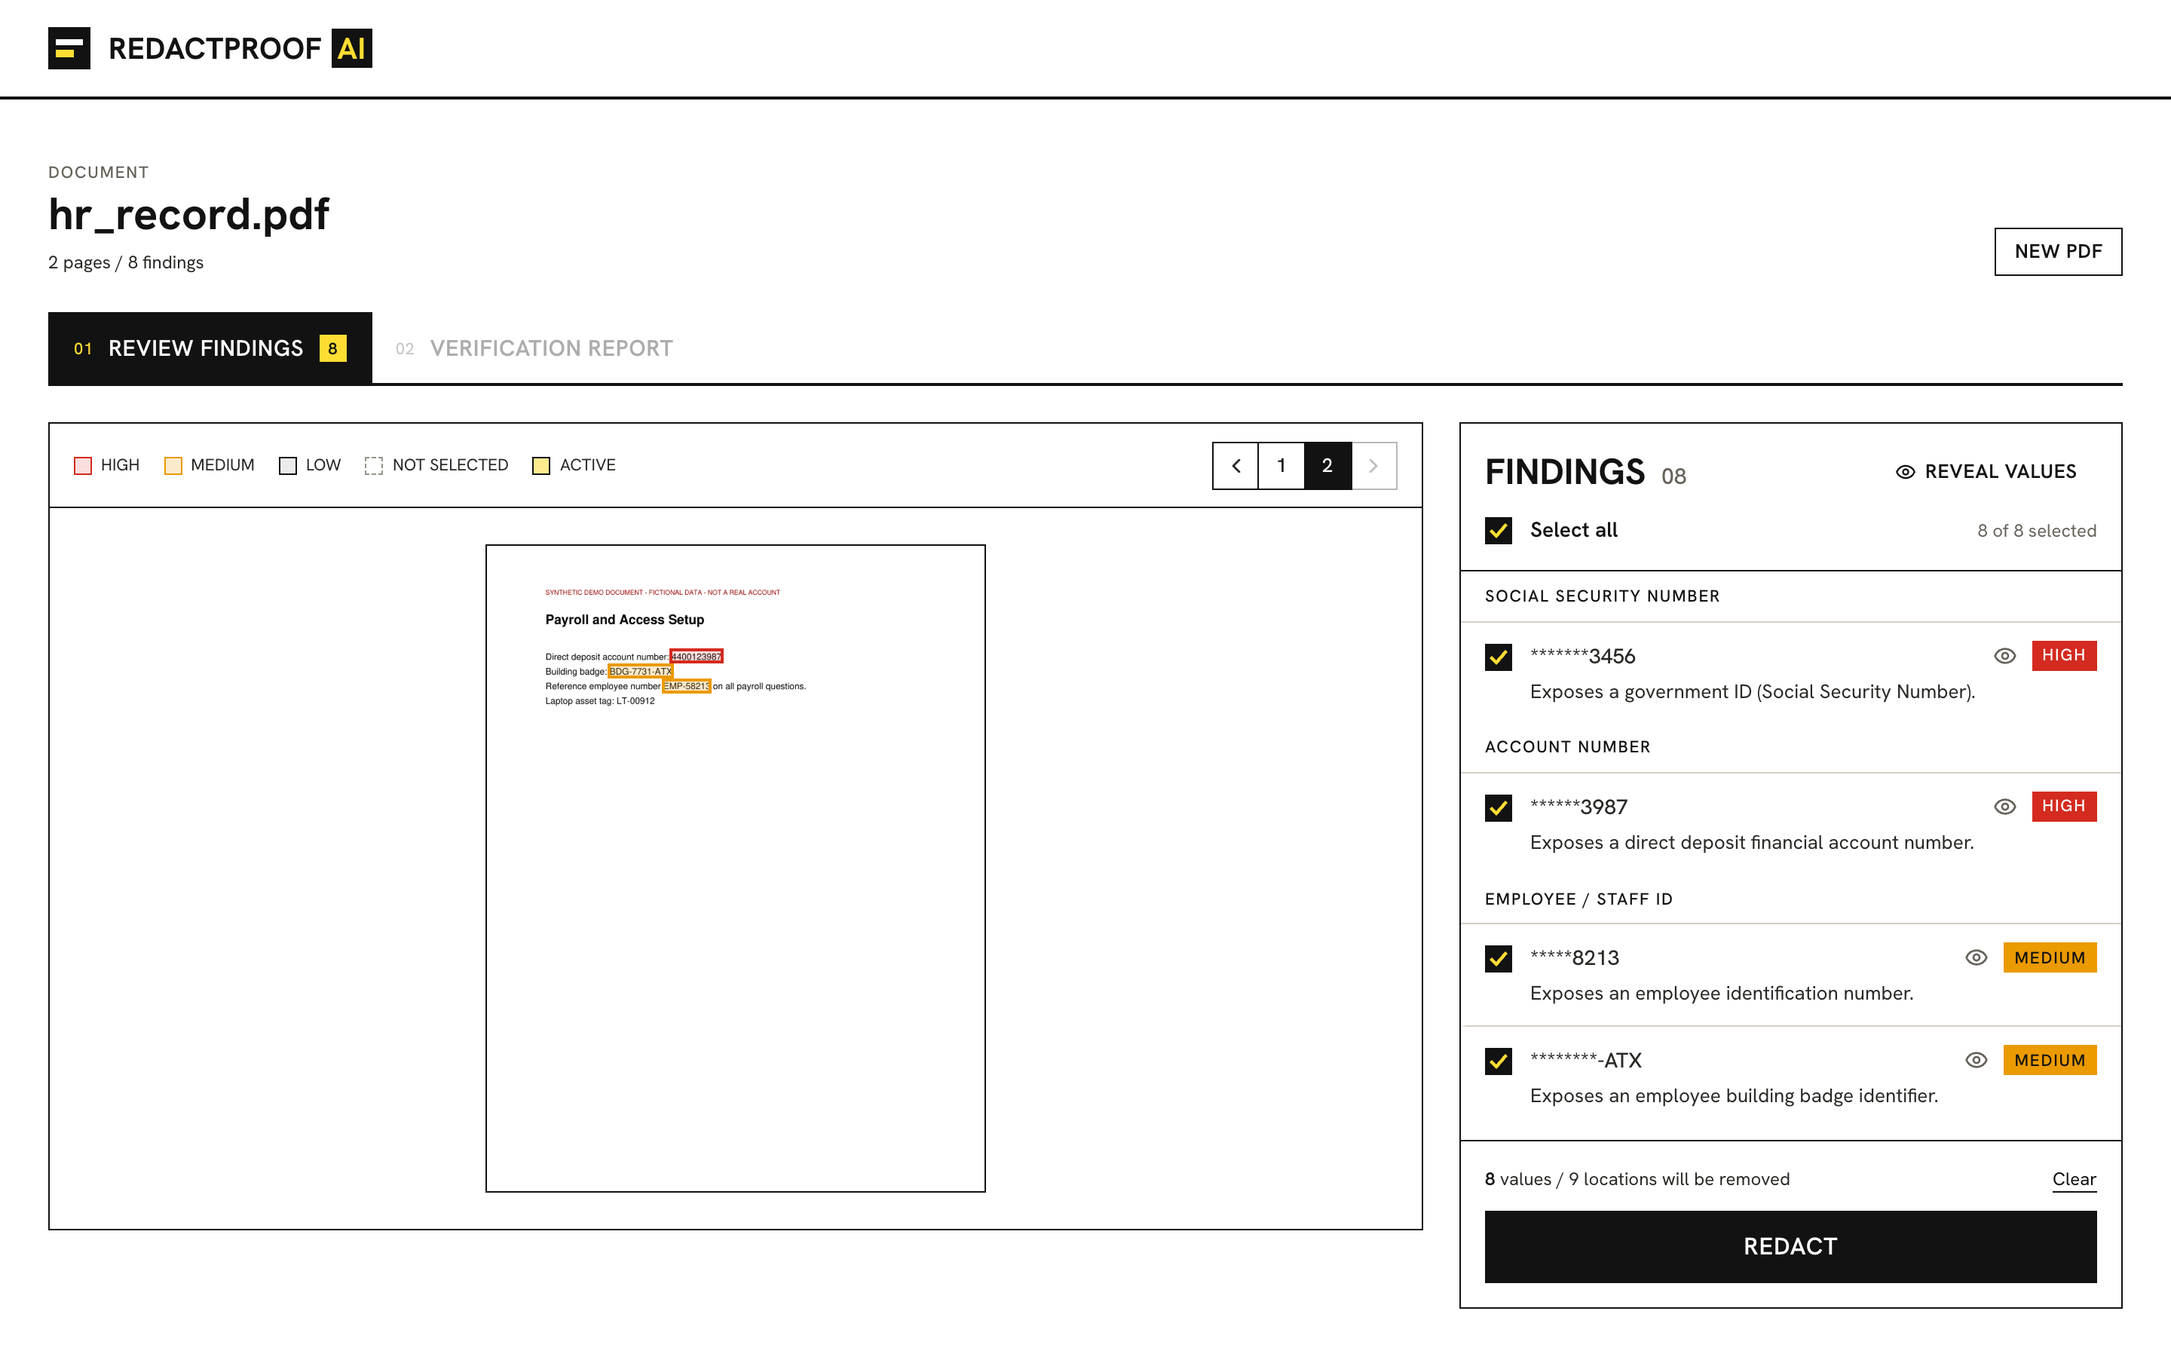
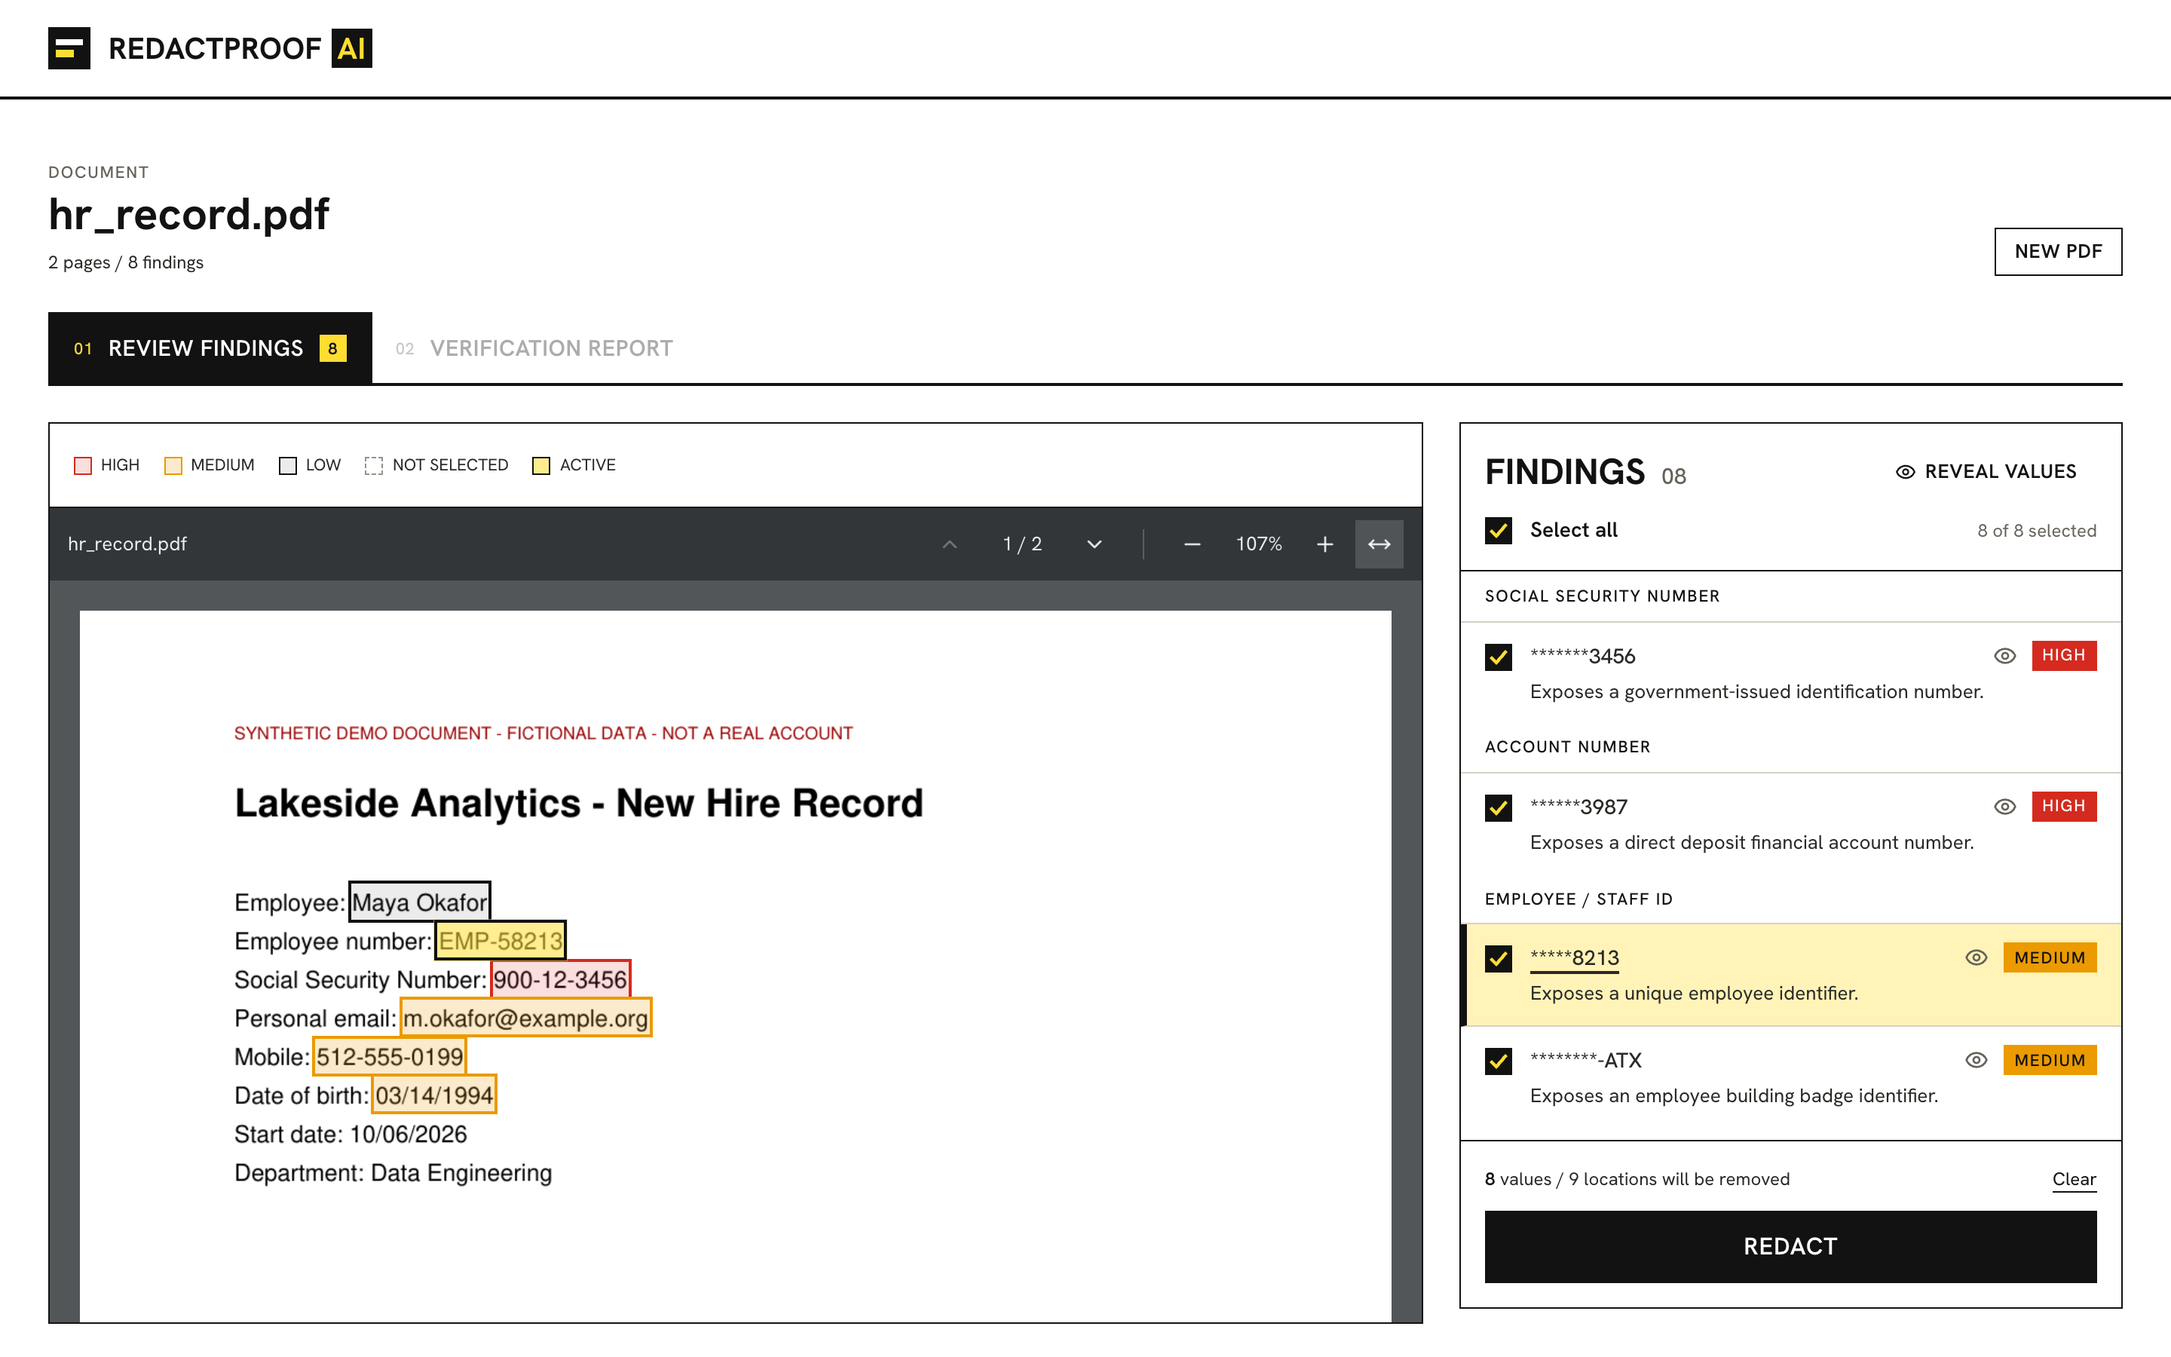
Show the document in a browser-style PDF reader
- New PdfReader: all pages in one continuous scroll on a dark backdrop with
  no page outline, plus a toolbar with file name, page indicator, previous /
  next, zoom in / out and fit to width (like a browser's PDF viewer)
- The color key stays above the reader; highlights scale with zoom
- Clicking a finding scrolls only the reader to its first location, not the
  whole page
- DocumentViewer gains width / framed / scroll options; the report's
  before/after view is unchanged

Changed region(s): [[0.0, 0.3111, 1.0, 0.9956], [0.0938, 0.6533, 0.3125, 0.8711], [0.8125, 0.4978, 0.9062, 0.5289]]

diff --git a/frontend/src/components/PdfReader.tsx b/frontend/src/components/PdfReader.tsx
@@ -1,0 +1,152 @@
+import { useEffect, useLayoutEffect, useRef, useState } from 'react'
+import { ChevronDown, ChevronUp, Minus, MoveHorizontal, Plus } from 'lucide-react'
+import type { DocumentPage, Finding } from '../api/types'
+import { api } from '../api/client'
+import { DocumentViewer } from './DocumentViewer'
+import { cx } from './ui'
+
+/** CSS pixels per PDF point at 100% zoom (96 dpi / 72 pt per inch), like a browser's PDF viewer. */
+const PX_PER_PT = 96 / 72
+const ZOOM_STEPS = [0.5, 0.75, 1, 1.25, 1.5, 2]
+const PAGE_GAP = 12
+const PADDING = 20
+
+interface PdfReaderProps {
+  filename: string
+  pages: DocumentPage[]
+  findings: Finding[]
+  selectedIds: Set<string>
+  activeId: string | null
+  /** Page whose box for the active finding should be scrolled to, and a key that re-triggers the scroll. */
+  focusPage: number | null
+  focusKey: number
+  onFindingClick: (id: string, page: number) => void
+}
+
+/** Continuous-scroll page view modelled on a browser's built-in PDF viewer, with finding overlays. */
+export function PdfReader({ filename, pages, findings, selectedIds, activeId, focusPage, focusKey, onFindingClick }: PdfReaderProps) {
+  const scrollRef = useRef<HTMLDivElement>(null)
+  const pageRefs = useRef<(HTMLDivElement | null)[]>([])
+  const [available, setAvailable] = useState(0)
+  const [zoom, setZoom] = useState<number | 'fit'>('fit')
+  const [current, setCurrent] = useState(1)
+
+  // Track the width available for "fit to width".
+  useLayoutEffect(() => {
+    const el = scrollRef.current
+    if (!el) return
+    const measure = () => setAvailable(el.clientWidth - PADDING * 2)
+    measure()
+    const observer = new ResizeObserver(measure)
+    observer.observe(el)
+    return () => observer.disconnect()
+  }, [])
+
+  const widest = Math.max(...pages.map((p) => p.width))
+  const fitZoom = available > 0 ? available / (widest * PX_PER_PT) : 1
+  const scale = zoom === 'fit' ? fitZoom : zoom
+  const percent = Math.round(scale * 100)
+
+  function updateCurrent() {
+    const el = scrollRef.current
+    if (!el) return
+    const probe = el.scrollTop + el.clientHeight * 0.3
+    let page = 1
+    pageRefs.current.forEach((node, i) => {
+      if (node && node.offsetTop <= probe) page = i + 1
+    })
+    setCurrent(page)
+  }
+
+  // Keep the page indicator right after zooming or resizing.
+  useEffect(updateCurrent, [scale])
+
+  function goTo(page: number) {
+    const el = scrollRef.current
+    const node = pageRefs.current[page - 1]
+    if (el && node) el.scrollTo({ top: node.offsetTop - PADDING, behavior: 'smooth' })
+  }
+
+  function stepZoom(direction: 1 | -1) {
+    const next = direction > 0 ? ZOOM_STEPS.find((z) => z > scale + 0.001) : [...ZOOM_STEPS].reverse().find((z) => z < scale - 0.001)
+    if (next !== undefined) setZoom(next)
+  }
+
+  const barButton = 'flex size-8 items-center justify-center text-white/85 transition-colors hover:bg-white/10 hover:text-white disabled:opacity-35 disabled:hover:bg-transparent'
+
+  return (
+    <div className="flex flex-col">
+      <div className="flex h-12 items-center gap-4 bg-reader-bar px-3 text-[13px] text-white/90">
+        <span className="min-w-0 flex-1 truncate" title={filename}>
+          {filename}
+        </span>
+        <div className="flex items-center gap-1" role="group" aria-label="Page navigation">
+          <button type="button" className={barButton} onClick={() => goTo(current - 1)} disabled={current <= 1} aria-label="Previous page">
+            <ChevronUp className="size-4" aria-hidden />
+          </button>
+          <span className="min-w-14 text-center tabular-nums" aria-live="polite" aria-label={`Page ${current} of ${pages.length}`}>
+            {current} / {pages.length}
+          </span>
+          <button type="button" className={barButton} onClick={() => goTo(current + 1)} disabled={current >= pages.length} aria-label="Next page">
+            <ChevronDown className="size-4" aria-hidden />
+          </button>
+        </div>
+        <span className="h-5 w-px bg-white/20" aria-hidden />
+        <div className="flex items-center gap-1" role="group" aria-label="Zoom">
+          <button type="button" className={barButton} onClick={() => stepZoom(-1)} disabled={scale <= ZOOM_STEPS[0] + 0.001} aria-label="Zoom out">
+            <Minus className="size-4" aria-hidden />
+          </button>
+          <span className="min-w-12 text-center tabular-nums">{percent}%</span>
+          <button type="button" className={barButton} onClick={() => stepZoom(1)} disabled={scale >= ZOOM_STEPS[ZOOM_STEPS.length - 1] - 0.001} aria-label="Zoom in">
+            <Plus className="size-4" aria-hidden />
+          </button>
+          <button
+            type="button"
+            className={cx(barButton, zoom === 'fit' && 'bg-white/15 text-white')}
+            onClick={() => setZoom('fit')}
+            aria-label="Fit to width"
+            aria-pressed={zoom === 'fit'}
+            title="Fit to width"
+          >
+            <MoveHorizontal className="size-4" aria-hidden />
+          </button>
+        </div>
+      </div>
+
+      <div
+        ref={scrollRef}
+        data-scroll-container
+        onScroll={updateCurrent}
+        className="relative h-[calc(100vh-25.5rem)] min-h-[420px] overflow-auto bg-reader-bg"
+        style={{ padding: PADDING }}
+      >
+        <div className="mx-auto flex w-max min-w-full flex-col items-center" style={{ gap: PAGE_GAP }}>
+          {available > 0 &&
+            pages.map((page, i) => (
+              <div
+                key={page.page}
+                ref={(node) => {
+                  pageRefs.current[i] = node
+                }}
+                data-page={page.page}
+              >
+                <DocumentViewer
+                  page={page}
+                  imageUrl={api.url(page.preview_url)}
+                  alt={`Page ${page.page} of ${filename}`}
+                  findings={findings}
+                  selectedIds={selectedIds}
+                  activeId={activeId}
+                  onFindingClick={(id) => onFindingClick(id, page.page)}
+                  width={Math.round(page.width * PX_PER_PT * scale)}
+                  framed={false}
+                  scrollToActive={focusPage === page.page}
+                  focusKey={focusKey}
+                />
+              </div>
+            ))}
+        </div>
+      </div>
+    </div>
+  )
+}

diff --git a/frontend/src/components/Workspace.tsx b/frontend/src/components/Workspace.tsx
@@ -1,11 +1,10 @@
 import { useRef, useState, type KeyboardEvent } from 'react'
 import type { AnalysisResponse, RedactionResult } from '../api/types'
-import { api } from '../api/client'
-import { DocumentViewer } from './DocumentViewer'
 import { FindingsSidebar } from './FindingsSidebar'
+import { PdfReader } from './PdfReader'
 import { RedactionControls } from './RedactionControls'
 import { VerificationReport } from './VerificationReport'
-import { Button, PageNav, Swatch, cx } from './ui'
+import { Button, Swatch, cx } from './ui'
 
 export type Tab = 'review' | 'report'
 
@@ -32,18 +31,17 @@ interface TabDef {
 
 export function Workspace(props: WorkspaceProps) {
   const { analysis, result, selectedIds, onSelect, redacting, redactError, expired, tab, onTabChange, onRedact, onStartOver } = props
+  // Page shown in the report's before/after viewer.
   const [page, setPage] = useState(1)
-  const [activeId, setActiveId] = useState<string | null>(null)
+  // Active finding in the reader; `scroll` is false when it was clicked on the page itself.
+  const [focus, setFocus] = useState<{ id: string; page: number; scroll: boolean; key: number } | null>(null)
 
-  const current = analysis.pages.find((p) => p.page === page) ?? analysis.pages[0]
   const hiddenCount = analysis.findings.filter((f) => f.visually_hidden).length
 
-  function activate(id: string, targetPage?: number) {
+  function activate(id: string, targetPage?: number, scroll = true) {
     const finding = analysis.findings.find((f) => f.id === id)
     if (!finding) return
-    setActiveId(id)
-    const pages = finding.locations.map((l) => l.page)
-    setPage(targetPage ?? (pages.includes(page) ? page : pages[0]))
+    setFocus((prev) => ({ id, page: targetPage ?? finding.locations[0].page, scroll, key: (prev?.key ?? 0) + 1 }))
   }
 
   const tabs: TabDef[] = [
@@ -83,7 +81,7 @@ export function Workspace(props: WorkspaceProps) {
         {tab === 'review' && (
           <div className="grid items-start gap-6 lg:grid-cols-[minmax(0,1fr)_minmax(380px,440px)]">
             <section aria-label="Document preview" className="panel">
-              <div className="flex min-h-14 flex-wrap items-center justify-between gap-x-4 gap-y-2 border-b-[1.5px] border-ink px-4 py-2">
+              <div className="flex min-h-14 flex-wrap items-center gap-x-4 gap-y-2 border-b-[1.5px] border-ink px-4 py-2">
                 <div className="flex flex-wrap items-center gap-x-4 gap-y-1 font-mono text-[11px] text-body uppercase">
                   <span className="flex items-center gap-1.5"><Swatch className="border-danger bg-danger/15" /> High</span>
                   <span className="flex items-center gap-1.5"><Swatch className="border-warning bg-warning/20" /> Medium</span>
@@ -91,25 +89,22 @@ export function Workspace(props: WorkspaceProps) {
                   <span className="flex items-center gap-1.5"><Swatch className="border-dashed border-subtle" /> Not selected</span>
                   <span className="flex items-center gap-1.5"><Swatch className="border-ink bg-marker/55" /> Active</span>
                 </div>
-                <PageNav page={current.page} count={analysis.pages.length} onChange={setPage} />
               </div>
-              <div className="bg-surface p-6">
-                <DocumentViewer
-                  page={current}
-                  imageUrl={api.url(current.preview_url)}
-                  alt={`Page ${current.page} of ${analysis.filename}`}
-                  findings={analysis.findings}
-                  selectedIds={selectedIds}
-                  activeId={activeId}
-                  onFindingClick={(id) => activate(id, current.page)}
-                  reservedHeight={470}
-                />
-              </div>
+              <PdfReader
+                filename={analysis.filename}
+                pages={analysis.pages}
+                findings={analysis.findings}
+                selectedIds={selectedIds}
+                activeId={focus?.id ?? null}
+                focusPage={focus?.scroll ? focus.page : null}
+                focusKey={focus?.key ?? 0}
+                onFindingClick={(id, p) => activate(id, p, false)}
+              />
             </section>
             <FindingsSidebar
               findings={analysis.findings}
               selectedIds={selectedIds}
-              activeId={activeId}
+              activeId={focus?.id ?? null}
               disabled={redacting || expired}
               onSelect={onSelect}
               onActivate={activate}

diff --git a/frontend/src/components/DocumentViewer.tsx b/frontend/src/components/DocumentViewer.tsx
@@ -15,6 +15,13 @@ interface DocumentViewerProps {
   toneFor?: (finding: Finding, hidden: boolean) => HighlightTone
   /** Vertical space (px) reserved around the page, so it fits in the viewport without distortion. */
   reservedHeight?: number
+  /** Exact display width in px; overrides the viewport-fit sizing. */
+  width?: number
+  /** Draw an ink outline around the page. */
+  framed?: boolean
+  /** When set, the active finding's first box on this page scrolls into view (re-run when focusKey changes). */
+  scrollToActive?: boolean
+  focusKey?: number
   overlay?: ReactNode
 }
 
@@ -32,6 +39,10 @@ export function DocumentViewer({
   onFindingClick,
   toneFor,
   reservedHeight = 260,
+  width,
+  framed = true,
+  scrollToActive = false,
+  focusKey,
   overlay,
 }: DocumentViewerProps) {
   const [loadedUrl, setLoadedUrl] = useState<string | null>(null)
@@ -42,10 +53,10 @@ export function DocumentViewer({
 
   return (
     <div
-      className="relative mx-auto overflow-hidden border-[1.5px] border-ink bg-white"
+      className={cx('relative mx-auto shrink-0 overflow-hidden bg-white', framed && 'border-[1.5px] border-ink')}
       style={{
         aspectRatio: `${page.width} / ${page.height}`,
-        width: `min(100%, max(320px, calc((100vh - ${reservedHeight}px) * ${ratio})))`,
+        width: width !== undefined ? `${width}px` : `min(100%, max(320px, calc((100vh - ${reservedHeight}px) * ${ratio})))`,
       }}
     >
       {!failed && (
@@ -77,6 +88,8 @@ export function DocumentViewer({
                 pageHeight={page.height}
                 selected={selectedIds?.has(finding.id) ?? true}
                 active={activeId === finding.id}
+                scrollOnActive={scrollToActive && i === 0}
+                scrollKey={focusKey}
                 tone={toneFor?.(finding, loc.visually_hidden)}
                 onClick={onFindingClick && (() => onFindingClick(finding.id))}
               />

diff --git a/frontend/src/components/FindingHighlight.tsx b/frontend/src/components/FindingHighlight.tsx
@@ -13,15 +13,29 @@ interface FindingHighlightProps {
   selected: boolean
   active: boolean
   tone?: HighlightTone
+  /** Scroll this box into view when it becomes active (or when scrollKey changes while active). */
+  scrollOnActive?: boolean
+  scrollKey?: number
   onClick?: () => void
 }
 
 /** One outlined region over the page preview, positioned in PDF points scaled to the displayed image. */
-export function FindingHighlight({ finding, location, pageWidth, pageHeight, selected, active, tone = 'risk', onClick }: FindingHighlightProps) {
+export function FindingHighlight({ finding, location, pageWidth, pageHeight, selected, active, tone = 'risk', scrollOnActive = false, scrollKey, onClick }: FindingHighlightProps) {
   const ref = useRef<HTMLButtonElement>(null)
   useEffect(() => {
-    if (active) ref.current?.scrollIntoView({ block: 'nearest', behavior: 'smooth' })
-  }, [active])
+    const el = ref.current
+    if (!active || !scrollOnActive || !el) return
+    // Scroll only the reader, not the whole page.
+    const scroller = el.closest<HTMLElement>('[data-scroll-container]')
+    if (!scroller) return el.scrollIntoView({ block: 'nearest', behavior: 'smooth' })
+    const box = el.getBoundingClientRect()
+    const view = scroller.getBoundingClientRect()
+    scroller.scrollBy({
+      top: box.top - view.top - view.height / 2 + box.height / 2,
+      left: box.left < view.left || box.right > view.right ? box.left - view.left - view.width / 2 + box.width / 2 : 0,
+      behavior: 'smooth',
+    })
+  }, [active, scrollOnActive, scrollKey])
 
   const style = bboxToPercent(location.bbox, pageWidth, pageHeight, 2)
   const toneClass =

diff --git a/frontend/src/index.css b/frontend/src/index.css
@@ -28,6 +28,10 @@
   /* Highlighter: active item, focus, revealed values */
   --color-marker: #ffdd33;
 
+  /* PDF reader chrome (matches a desktop browser's built-in PDF viewer) */
+  --color-reader-bar: #323639;
+  --color-reader-bg: #525659;
+
   /* Status: solid (fills, marks), ink (text on light), soft (tints), line (borders) */
   --color-danger: #d42a1f;
   --color-danger-ink: #a81d14;

diff --git a/frontend/README.md b/frontend/README.md
@@ -36,7 +36,8 @@ src/
     AppShell             header, backend-offline badge, mock banner
     UploadZone           Screen A: drag-and-drop, client-side checks, analyzing state
     Workspace            tabs + review layout (Screen B)
-    DocumentViewer       page preview at true aspect ratio with FindingHighlight overlays
+    PdfReader            browser-style PDF reader: all pages in one scroll, page + zoom toolbar
+    DocumentViewer       one page preview at true aspect ratio with FindingHighlight overlays
     FindingsSidebar      grouped findings, select all / per group, mask + reveal
     FindingCard          one finding: masked value, risk, sources, locations
     RedactionControls    Screen D: the "Redact" button
